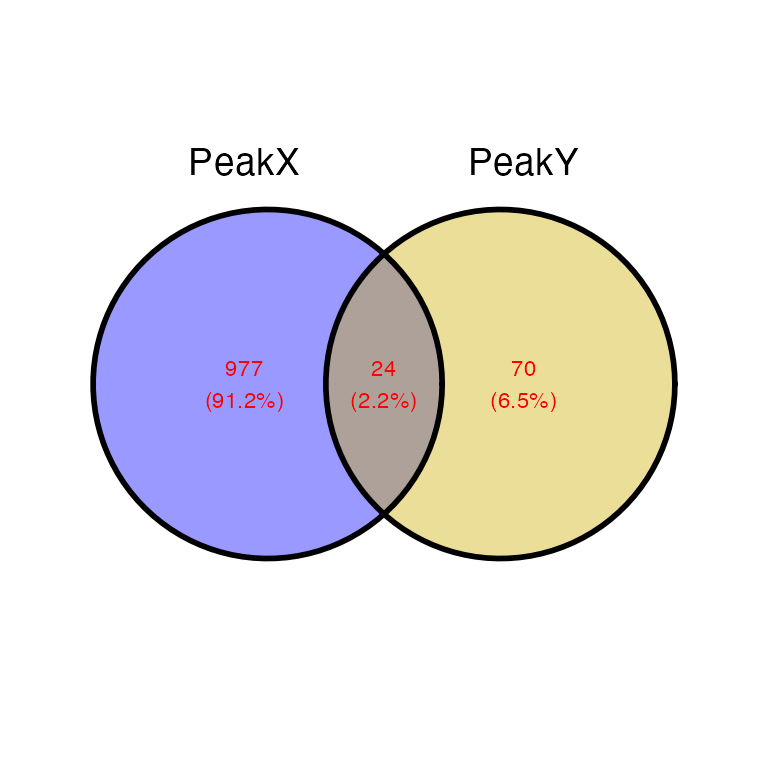
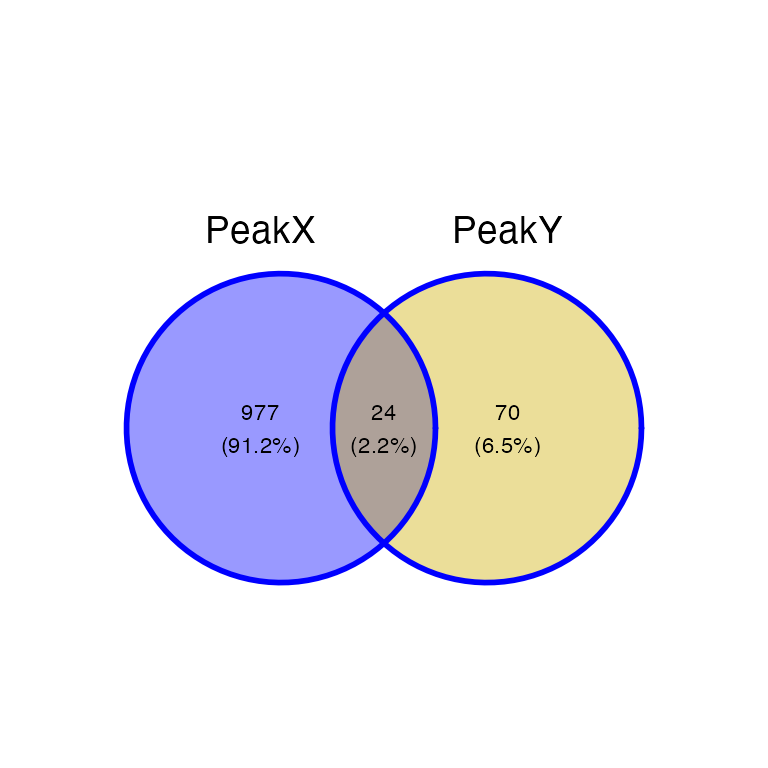
update

diff --git a/docs/articles/08-ggVennPeaks.html b/docs/articles/08-ggVennPeaks.html
@@ -113,7 +113,7 @@
       <h1 data-toc-skip>ggVennPeaks()</h1>
                         <h4 class="author">Adrià Mitjavila Ventura</h4>
             
-            <h4 class="date">23 June, 2021</h4>
+            <h4 class="date">12 July, 2021</h4>
       
       <small class="dont-index">Source: <a href="https://github.com/amitjavilaventura/plotmics/blob/master/vignettes/08-ggVennPeaks.Rmd"><code>vignettes/08-ggVennPeaks.Rmd</code></a></small>
       <div class="hidden name"><code>08-ggVennPeaks.Rmd</code></div>
@@ -200,53 +200,62 @@
 <pre><code>## Using Peak as id variables</code></pre>
 <p><img src="08-ggVennPeaks_files/figure-html/unnamed-chunk-7-1.png" width="384" style="display: block; margin: auto;"></p>
 </div>
+<div id="title-and-subtitle" class="section level3">
+<h3 class="hasAnchor">
+<a href="#title-and-subtitle" class="anchor"></a>Title and subtitle</h3>
+<div class="sourceCode" id="cb11"><pre class="downlit sourceCode r">
+<code class="sourceCode R"><span class="fu"><a href="../reference/ggVennPeaks.html">ggVennPeaks</a></span><span class="op">(</span><span class="va">peak_list</span>, peak_names <span class="op">=</span> <span class="fu"><a href="https://rdrr.io/r/base/c.html">c</a></span><span class="op">(</span><span class="st">"Condition 1"</span>, <span class="st">"Condition 2"</span><span class="op">)</span>, 
+            title <span class="op">=</span> <span class="st">"This is a title"</span>, subtitle <span class="op">=</span> <span class="st">"This is a subtitle"</span><span class="op">)</span></code></pre></div>
+<pre><code>## Using Peak as id variables</code></pre>
+<p><img src="08-ggVennPeaks_files/figure-html/unnamed-chunk-8-1.png" width="384" style="display: block; margin: auto;"></p>
+</div>
 <div id="remove-percentage" class="section level3">
 <h3 class="hasAnchor">
 <a href="#remove-percentage" class="anchor"></a>Remove percentage</h3>
-<div class="sourceCode" id="cb11"><pre class="downlit sourceCode r">
+<div class="sourceCode" id="cb13"><pre class="downlit sourceCode r">
 <code class="sourceCode R"><span class="fu"><a href="../reference/ggVennPeaks.html">ggVennPeaks</a></span><span class="op">(</span><span class="va">peak_list</span>, percent <span class="op">=</span> <span class="cn">F</span><span class="op">)</span></code></pre></div>
 <pre><code>## Using Peak as id variables</code></pre>
-<p><img src="08-ggVennPeaks_files/figure-html/unnamed-chunk-8-1.png" width="384" style="display: block; margin: auto;"></p>
+<p><img src="08-ggVennPeaks_files/figure-html/unnamed-chunk-9-1.png" width="384" style="display: block; margin: auto;"></p>
 </div>
 <div id="set-colors" class="section level3">
 <h3 class="hasAnchor">
 <a href="#set-colors" class="anchor"></a>Set colors</h3>
-<div class="sourceCode" id="cb13"><pre class="downlit sourceCode r">
+<div class="sourceCode" id="cb15"><pre class="downlit sourceCode r">
 <code class="sourceCode R"><span class="fu"><a href="../reference/ggVennPeaks.html">ggVennPeaks</a></span><span class="op">(</span><span class="va">peak_list</span>, in_fill <span class="op">=</span> <span class="fu"><a href="https://rdrr.io/r/base/c.html">c</a></span><span class="op">(</span><span class="st">"Green"</span>, <span class="st">"Darkred"</span><span class="op">)</span><span class="op">)</span></code></pre></div>
 <pre><code>## Using Peak as id variables</code></pre>
-<p><img src="08-ggVennPeaks_files/figure-html/unnamed-chunk-9-1.png" width="384" style="display: block; margin: auto;"></p>
-<div class="sourceCode" id="cb15"><pre class="downlit sourceCode r">
+<p><img src="08-ggVennPeaks_files/figure-html/unnamed-chunk-10-1.png" width="384" style="display: block; margin: auto;"></p>
+<div class="sourceCode" id="cb17"><pre class="downlit sourceCode r">
 <code class="sourceCode R"><span class="fu"><a href="../reference/ggVennPeaks.html">ggVennPeaks</a></span><span class="op">(</span><span class="va">peak_list</span>, in_fill <span class="op">=</span> <span class="fu"><a href="https://rdrr.io/r/base/c.html">c</a></span><span class="op">(</span><span class="st">"Green"</span>, <span class="st">"Darkred"</span><span class="op">)</span>, alpha <span class="op">=</span> <span class="fl">.2</span><span class="op">)</span></code></pre></div>
 <pre><code>## Using Peak as id variables</code></pre>
-<p><img src="08-ggVennPeaks_files/figure-html/unnamed-chunk-10-1.png" width="384" style="display: block; margin: auto;"></p>
+<p><img src="08-ggVennPeaks_files/figure-html/unnamed-chunk-11-1.png" width="384" style="display: block; margin: auto;"></p>
 </div>
 <div id="other-colors" class="section level3">
 <h3 class="hasAnchor">
 <a href="#other-colors" class="anchor"></a>Other colors</h3>
-<div class="sourceCode" id="cb17"><pre class="downlit sourceCode r">
-<code class="sourceCode R"><span class="fu"><a href="../reference/ggVennPeaks.html">ggVennPeaks</a></span><span class="op">(</span><span class="va">peak_list</span>, out_color <span class="op">=</span> <span class="st">"blue"</span><span class="op">)</span></code></pre></div>
-<pre><code>## Using Peak as id variables</code></pre>
-<p><img src="08-ggVennPeaks_files/figure-html/unnamed-chunk-11-1.png" width="384" style="display: block; margin: auto;"></p>
 <div class="sourceCode" id="cb19"><pre class="downlit sourceCode r">
-<code class="sourceCode R"><span class="fu"><a href="../reference/ggVennPeaks.html">ggVennPeaks</a></span><span class="op">(</span><span class="va">peak_list</span>, text_color <span class="op">=</span> <span class="st">"red"</span><span class="op">)</span></code></pre></div>
+<code class="sourceCode R"><span class="fu"><a href="../reference/ggVennPeaks.html">ggVennPeaks</a></span><span class="op">(</span><span class="va">peak_list</span>, out_color <span class="op">=</span> <span class="st">"blue"</span><span class="op">)</span></code></pre></div>
 <pre><code>## Using Peak as id variables</code></pre>
 <p><img src="08-ggVennPeaks_files/figure-html/unnamed-chunk-12-1.png" width="384" style="display: block; margin: auto;"></p>
 <div class="sourceCode" id="cb21"><pre class="downlit sourceCode r">
-<code class="sourceCode R"><span class="fu"><a href="../reference/ggVennPeaks.html">ggVennPeaks</a></span><span class="op">(</span><span class="va">peak_list</span>, name_color <span class="op">=</span> <span class="fu"><a href="https://rdrr.io/r/base/c.html">c</a></span><span class="op">(</span><span class="st">"red"</span>, <span class="st">"blue"</span><span class="op">)</span><span class="op">)</span></code></pre></div>
+<code class="sourceCode R"><span class="fu"><a href="../reference/ggVennPeaks.html">ggVennPeaks</a></span><span class="op">(</span><span class="va">peak_list</span>, text_color <span class="op">=</span> <span class="st">"red"</span><span class="op">)</span></code></pre></div>
 <pre><code>## Using Peak as id variables</code></pre>
 <p><img src="08-ggVennPeaks_files/figure-html/unnamed-chunk-13-1.png" width="384" style="display: block; margin: auto;"></p>
+<div class="sourceCode" id="cb23"><pre class="downlit sourceCode r">
+<code class="sourceCode R"><span class="fu"><a href="../reference/ggVennPeaks.html">ggVennPeaks</a></span><span class="op">(</span><span class="va">peak_list</span>, name_color <span class="op">=</span> <span class="fu"><a href="https://rdrr.io/r/base/c.html">c</a></span><span class="op">(</span><span class="st">"red"</span>, <span class="st">"blue"</span><span class="op">)</span><span class="op">)</span></code></pre></div>
+<pre><code>## Using Peak as id variables</code></pre>
+<p><img src="08-ggVennPeaks_files/figure-html/unnamed-chunk-14-1.png" width="384" style="display: block; margin: auto;"></p>
 </div>
 <div id="text-sizes" class="section level3">
 <h3 class="hasAnchor">
 <a href="#text-sizes" class="anchor"></a>Text sizes</h3>
-<div class="sourceCode" id="cb23"><pre class="downlit sourceCode r">
+<div class="sourceCode" id="cb25"><pre class="downlit sourceCode r">
 <code class="sourceCode R"><span class="fu"><a href="../reference/ggVennPeaks.html">ggVennPeaks</a></span><span class="op">(</span><span class="va">peak_list</span>, label_size <span class="op">=</span> <span class="fl">10</span><span class="op">)</span></code></pre></div>
 <pre><code>## Using Peak as id variables</code></pre>
-<p><img src="08-ggVennPeaks_files/figure-html/unnamed-chunk-14-1.png" width="384" style="display: block; margin: auto;"></p>
-<div class="sourceCode" id="cb25"><pre class="downlit sourceCode r">
+<p><img src="08-ggVennPeaks_files/figure-html/unnamed-chunk-15-1.png" width="384" style="display: block; margin: auto;"></p>
+<div class="sourceCode" id="cb27"><pre class="downlit sourceCode r">
 <code class="sourceCode R"><span class="fu"><a href="../reference/ggVennPeaks.html">ggVennPeaks</a></span><span class="op">(</span><span class="va">peak_list</span>, name_size <span class="op">=</span> <span class="fl">10</span><span class="op">)</span></code></pre></div>
 <pre><code>## Using Peak as id variables</code></pre>
-<p><img src="08-ggVennPeaks_files/figure-html/unnamed-chunk-15-1.png" width="384" style="display: block; margin: auto;"></p>
+<p><img src="08-ggVennPeaks_files/figure-html/unnamed-chunk-16-1.png" width="384" style="display: block; margin: auto;"></p>
 </div>
 <div id="further-costumization" class="section level3">
 <h3 class="hasAnchor">

diff --git a/docs/reference/ggVennPeaks.html b/docs/reference/ggVennPeaks.html
@@ -47,7 +47,7 @@
 
 
 <meta property="og:title" content="ggVennPeaks — ggVennPeaks" />
-<meta property="og:description" content="ggVennPeaks" />
+<meta property="og:description" content="Function that calls 'getVennCounts()' and draws a VennDiagram of peak intersections using the ggvenn package." />
 <meta property="og:image" content="/logo.png" />
 
 
@@ -158,21 +158,10 @@
     </div>
 
     <div class="ref-description">
-    <p>ggVennPeaks</p>
+    <p>Function that calls 'getVennCounts()' and draws a VennDiagram of peak intersections using the ggvenn package.</p>
     </div>
 
-    <pre class="usage"><span class='fu'>ggVennPeaks</span><span class='op'>(</span>
-  <span class='va'>peak_list</span>,
-  peak_names <span class='op'>=</span> <span class='fu'><a href='https://rdrr.io/r/base/names.html'>names</a></span><span class='op'>(</span><span class='va'>peak_list</span><span class='op'>)</span>,
-  percent <span class='op'>=</span> <span class='cn'>T</span>,
-  in_fill <span class='op'>=</span> <span class='fu'><a href='https://rdrr.io/r/base/c.html'>c</a></span><span class='op'>(</span><span class='st'>"blue"</span>, <span class='st'>"gold3"</span><span class='op'>)</span>,
-  alpha <span class='op'>=</span> <span class='fl'>0.4</span>,
-  out_color <span class='op'>=</span> <span class='st'>"black"</span>,
-  name_color <span class='op'>=</span> <span class='st'>"black"</span>,
-  text_color <span class='op'>=</span> <span class='st'>"black"</span>,
-  name_size <span class='op'>=</span> <span class='fl'>5</span>,
-  label_size <span class='op'>=</span> <span class='fl'>3</span>
-<span class='op'>)</span></pre>
+    <pre class="usage"><span class='fu'>ggVennPeaks</span><span class='op'>(</span><span class='va'>peak_list</span>, peak_names <span class='op'>=</span> <span class='fu'><a href='https://rdrr.io/r/base/names.html'>names</a></span><span class='op'>(</span><span class='va'>peak_list</span><span class='op'>)</span>, percent <span class='op'>=</span> <span class='cn'>T</span>, fill <span class='op'>=</span> <span class='fu'><a href='https://rdrr.io/r/base/c.html'>c</a></span><span class='op'>(</span><span class='st'>"blue"</span>, <span class='st'>"gold3"</span><span class='op'>)</span>, alpha <span class='op'>=</span> <span class='fl'>.4</span>, color <span class='op'>=</span> <span class='st'>"black"</span>, text_color <span class='op'>=</span> <span class='st'>"black"</span>, name_size <span class='op'>=</span> <span class='fl'>5</span>, label_size <span class='op'>=</span> <span class='fl'>3</span>, title <span class='op'>=</span> <span class='st'>""</span>, subtitle <span class='op'>=</span> <span class='st'>""</span><span class='op'>)</span></pre>
 
     <h2 class="hasAnchor" id="arguments"><a class="anchor" href="#arguments"></a>Arguments</h2>
     <table class="ref-arguments">
@@ -218,17 +207,23 @@ Character of the same length as 'conds'. Same values as in 'conds' but with the 
       <th>label_size</th>
       <td><p>Numeric of length 1. Size of the text inside the Venn circles. Default: 3</p></td>
     </tr>
+    <tr>
+      <th>title</th>
+      <td><p>Character of length 1. Title of the plot. Can be NULL. Default: ""</p></td>
+    </tr>
+    <tr>
+      <th>subtitle</th>
+      <td><p>Character of length 1. Title of the plot. Can be NULL. Default: ""</p></td>
+    </tr>
     </table>
 
     <h2 class="hasAnchor" id="see-also"><a class="anchor" href="#see-also"></a>See also</h2>
 
-    <div class='dont-index'><p>ggvenn</p>
-<p>makeVennDiagram</p></div>
+    <div class='dont-index'><p>ggvenn::ggvenn()</p>
+<p>ChIPseeker::makeVennDiagram()</p></div>
     <h2 class="hasAnchor" id="author"><a class="anchor" href="#author"></a>Author</h2>
 
     <p>amitjavilaventura</p>
-<p>Function that calls 'getVennCounts' and draws a VennDiagram of peak intersections using the ggvenn package.</p>
-<p>ggVennPeaks(peak_list, peak_names = names(peak_list), percent = T, fill = c("blue", "gold3"), alpha = .4, color = "black", text_color = "black", name_size = 5, label_size = 3)</p>
 
   </div>
   <div class="col-md-3 hidden-xs hidden-sm" id="pkgdown-sidebar">

diff --git a/docs/reference/barDEGs.html b/docs/reference/barDEGs.html
@@ -171,6 +171,8 @@
   yaxis <span class='op'>=</span> <span class='cn'>F</span>,
   colors <span class='op'>=</span> <span class='fu'><a href='https://rdrr.io/r/base/c.html'>c</a></span><span class='op'>(</span><span class='st'>"green"</span>, <span class='st'>"red"</span><span class='op'>)</span>,
   alpha <span class='op'>=</span> <span class='fl'>0.5</span>,
+  num_size <span class='op'>=</span> <span class='fl'>3</span>,
+  name_size <span class='op'>=</span> <span class='fl'>3</span>,
   log2FC <span class='op'>=</span> <span class='fl'>1</span>,
   pval <span class='op'>=</span> <span class='fl'>0.05</span>
 <span class='op'>)</span></pre>
@@ -212,7 +214,15 @@
     </tr>
     <tr>
       <th>alpha</th>
-      <td><p>Numeric of length 1. Alpha (transparency) value for the vars. Deefault: 0.5</p></td>
+      <td><p>Numeric of length 1. Alpha (transparency) value for the vars. Deefault: 0.5.</p></td>
+    </tr>
+    <tr>
+      <th>num_size</th>
+      <td><p>Numeric of length 1. Size of the number of DEGs written in the bars. Default: 3.</p></td>
+    </tr>
+    <tr>
+      <th>name_size</th>
+      <td><p>Numeric of length 1. Size of the names of the contrasts  written next to the bars. Default: 3.</p></td>
     </tr>
     <tr>
       <th>log2FC</th>

diff --git a/docs/articles/07-ggUpsetPeaks.html b/docs/articles/07-ggUpsetPeaks.html
@@ -113,7 +113,7 @@
       <h1 data-toc-skip>ggUpsetPeaks()</h1>
                         <h4 class="author">Adrià Mitjavila Ventura</h4>
             
-            <h4 class="date">23 June, 2021</h4>
+            <h4 class="date">12 July, 2021</h4>
       
       <small class="dont-index">Source: <a href="https://github.com/amitjavilaventura/plotmics/blob/master/vignettes/07-ggUpsetPeaks.Rmd"><code>vignettes/07-ggUpsetPeaks.Rmd</code></a></small>
       <div class="hidden name"><code>07-ggUpsetPeaks.Rmd</code></div>

diff --git a/docs/articles/03-volcanoPlot.html b/docs/articles/03-volcanoPlot.html
@@ -113,7 +113,7 @@
       <h1 data-toc-skip>volcanoPlot()</h1>
                         <h4 class="author">Adrià Mitjavila Ventura</h4>
             
-            <h4 class="date">23 June, 2021</h4>
+            <h4 class="date">12 July, 2021</h4>
       
       <small class="dont-index">Source: <a href="https://github.com/amitjavilaventura/plotmics/blob/master/vignettes/03-volcanoPlot.Rmd"><code>vignettes/03-volcanoPlot.Rmd</code></a></small>
       <div class="hidden name"><code>03-volcanoPlot.Rmd</code></div>

diff --git a/docs/articles/01-chromReads.html b/docs/articles/01-chromReads.html
@@ -113,7 +113,7 @@
       <h1 data-toc-skip>chromReads()</h1>
                         <h4 class="author">Adrià Mitjavila Ventura</h4>
             
-            <h4 class="date">23 June, 2021</h4>
+            <h4 class="date">12 July, 2021</h4>
       
       <small class="dont-index">Source: <a href="https://github.com/amitjavilaventura/plotmics/blob/master/vignettes/01-chromReads.Rmd"><code>vignettes/01-chromReads.Rmd</code></a></small>
       <div class="hidden name"><code>01-chromReads.Rmd</code></div>

diff --git a/docs/articles/06-upSetPeaks.html b/docs/articles/06-upSetPeaks.html
@@ -113,7 +113,7 @@
       <h1 data-toc-skip>upsetPeaks()</h1>
                         <h4 class="author">Adrià Mitjavila Ventura</h4>
             
-            <h4 class="date">23 June, 2021</h4>
+            <h4 class="date">12 July, 2021</h4>
       
       <small class="dont-index">Source: <a href="https://github.com/amitjavilaventura/plotmics/blob/master/vignettes/06-upSetPeaks.Rmd"><code>vignettes/06-upSetPeaks.Rmd</code></a></small>
       <div class="hidden name"><code>06-upSetPeaks.Rmd</code></div>

diff --git a/docs/articles/04-DEcompare.html b/docs/articles/04-DEcompare.html
@@ -113,7 +113,7 @@
       <h1 data-toc-skip>DEcompare()</h1>
                         <h4 class="author">Adrià Mitjavila Ventura</h4>
             
-            <h4 class="date">23 June, 2021</h4>
+            <h4 class="date">12 July, 2021</h4>
       
       <small class="dont-index">Source: <a href="https://github.com/amitjavilaventura/plotmics/blob/master/vignettes/04-DEcompare.Rmd"><code>vignettes/04-DEcompare.Rmd</code></a></small>
       <div class="hidden name"><code>04-DEcompare.Rmd</code></div>

diff --git a/docs/articles/00-install.html b/docs/articles/00-install.html
@@ -113,7 +113,7 @@
       <h1 data-toc-skip>Install plotmics</h1>
                         <h4 class="author">Adrià Mitjavila Ventura</h4>
             
-            <h4 class="date">23 June, 2021</h4>
+            <h4 class="date">12 July, 2021</h4>
       
       <small class="dont-index">Source: <a href="https://github.com/amitjavilaventura/plotmics/blob/master/vignettes/00-install.Rmd"><code>vignettes/00-install.Rmd</code></a></small>
       <div class="hidden name"><code>00-install.Rmd</code></div>

diff --git a/docs/articles/02-barDEGs.html b/docs/articles/02-barDEGs.html
@@ -113,7 +113,7 @@
       <h1 data-toc-skip>barDEGs()</h1>
                         <h4 class="author">Adrià Mitjavila Ventura</h4>
             
-            <h4 class="date">23 June, 2021</h4>
+            <h4 class="date">12 July, 2021</h4>
       
       <small class="dont-index">Source: <a href="https://github.com/amitjavilaventura/plotmics/blob/master/vignettes/02-barDEGs.Rmd"><code>vignettes/02-barDEGs.Rmd</code></a></small>
       <div class="hidden name"><code>02-barDEGs.Rmd</code></div>

diff --git a/docs/articles/05-barAnno.html b/docs/articles/05-barAnno.html
@@ -113,7 +113,7 @@
       <h1 data-toc-skip>barAnno()</h1>
                         <h4 class="author">Adrià Mitjavila Ventura</h4>
             
-            <h4 class="date">23 June, 2021</h4>
+            <h4 class="date">12 July, 2021</h4>
       
       <small class="dont-index">Source: <a href="https://github.com/amitjavilaventura/plotmics/blob/master/vignettes/05-barAnno.Rmd"><code>vignettes/05-barAnno.Rmd</code></a></small>
       <div class="hidden name"><code>05-barAnno.Rmd</code></div>
